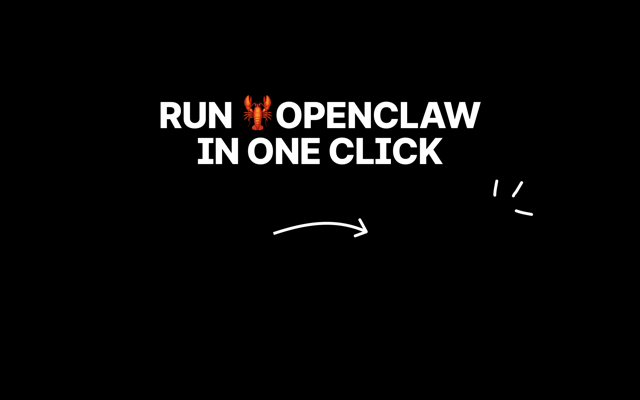
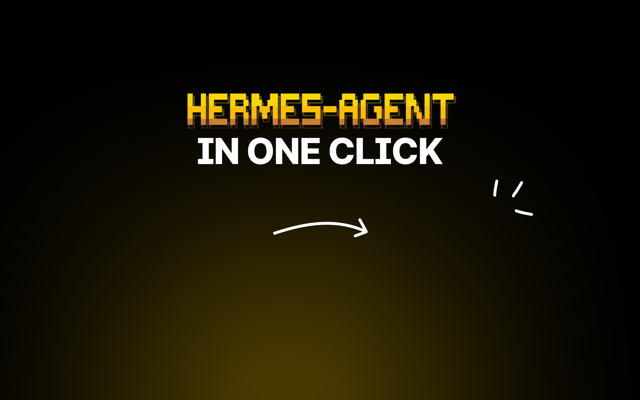
feat(ui): update chat message list and local models tab styles
- Refactored the ChatMessageList component to improve scroll behavior and user experience when new messages arrive.
- Introduced a new background image for the Hermes DMG installer.
- Updated LocalModelsTab styles to standardize button appearances and removed deprecated button styles.
- Adjusted SkillsIntegrationsTab to switch default tab from "installed" to "hub" for better user navigation.

diff --git a/desktop/renderer/src/ui/chat/components/ChatMessageList.tsx b/desktop/renderer/src/ui/chat/components/ChatMessageList.tsx
@@ -35,7 +35,7 @@ export function ChatMessageList(props: ChatMessageListProps) {
     waitingForFirstChunk,
     scrollRef,
   } = props;
-  const latestUserRef = React.useRef<HTMLDivElement | null>(null);
+  const followBottomRef = React.useRef(true);
 
   const renderedMessages = React.useMemo(() => {
     if (
@@ -57,60 +57,51 @@ export function ChatMessageList(props: ChatMessageListProps) {
     ];
   }, [isStreaming, messages, streamingActions, streamingMessageId, streamingText, streamingThinking, waitingForFirstChunk]);
 
-  const latestUserMessageId = React.useMemo(() => {
-    for (let index = renderedMessages.length - 1; index >= 0; index -= 1) {
-      const message = renderedMessages[index];
-      if (message?.role === "user") {
-        return message.id;
-      }
-    }
-    return null;
-  }, [renderedMessages]);
-
+  // Detect user-initiated scroll input and flip stickiness based on resulting position.
+  // Programmatic scrolls (our own scrollTo below) don't fire these events, so they
+  // never accidentally detach or re-attach the sticky state.
   React.useEffect(() => {
-    if ((!streamingMessageId && anchorVersion === 0) || !latestUserRef.current || !scrollRef.current) return;
+    const container = scrollRef.current;
+    if (!container) return;
 
-    let timeoutId: number | null = null;
-    let frameId = 0;
+    const STICK_THRESHOLD_PX = 80;
 
-    const alignLatestUser = (behavior: ScrollBehavior) => {
-      const container = scrollRef.current;
-      const target = latestUserRef.current;
-      if (!container || !target) return;
-
-      const containerRect = container.getBoundingClientRect();
-      const targetRect = target.getBoundingClientRect();
-      const desiredTop = -40;
-      const nextScrollTop = container.scrollTop + (targetRect.top - containerRect.top) - desiredTop;
-
-      container.scrollTo({
-        top: Math.max(0, nextScrollTop),
-        behavior,
-      });
+    const reevaluate = () => {
+      const distanceFromBottom = container.scrollHeight - container.scrollTop - container.clientHeight;
+      followBottomRef.current = distanceFromBottom <= STICK_THRESHOLD_PX;
     };
 
-    frameId = requestAnimationFrame(() => {
-      alignLatestUser("smooth");
-      timeoutId = window.setTimeout(() => {
-        alignLatestUser("auto");
-      }, 140);
-    });
+    const handleUserInput = () => {
+      requestAnimationFrame(reevaluate);
+    };
+
+    container.addEventListener("wheel", handleUserInput, { passive: true });
+    container.addEventListener("touchmove", handleUserInput, { passive: true });
+    container.addEventListener("keydown", handleUserInput);
 
     return () => {
-      cancelAnimationFrame(frameId);
-      if (timeoutId !== null) {
-        window.clearTimeout(timeoutId);
-      }
+      container.removeEventListener("wheel", handleUserInput);
+      container.removeEventListener("touchmove", handleUserInput);
+      container.removeEventListener("keydown", handleUserInput);
     };
-  }, [
-    anchorVersion,
-    isStreaming,
-    latestUserMessageId,
-    scrollRef,
-    streamingMessageId,
-    streamingText,
-    waitingForFirstChunk,
-  ]);
+  }, [scrollRef]);
+
+  // New send / stream completion boundary — user clearly wants to see the latest,
+  // so re-enable stickiness.
+  React.useEffect(() => {
+    if (anchorVersion === 0) return;
+    followBottomRef.current = true;
+  }, [anchorVersion]);
+
+  // Follow the bottom on every streamed chunk, but only while the user hasn't
+  // scrolled away. Uses scrollTop assignment (no smooth behavior) to avoid the
+  // per-token animation jitter.
+  React.useEffect(() => {
+    if (!followBottomRef.current) return;
+    const container = scrollRef.current;
+    if (!container) return;
+    container.scrollTop = container.scrollHeight;
+  }, [streamingText, streamingThinking, streamingActions, anchorVersion, renderedMessages.length, scrollRef]);
 
   return (
     <div className={`${ct.UiChatTranscript} scrollable`} ref={scrollRef}>
@@ -120,7 +111,6 @@ export function ChatMessageList(props: ChatMessageListProps) {
             return (
               <UserMessageBubble
                 key={msg.id}
-                ref={msg.id === latestUserMessageId ? latestUserRef : undefined}
                 text={msg.content}
               />
             );

diff --git a/desktop/renderer/src/ui/settings/local-models/LocalModelsTab.module.css b/desktop/renderer/src/ui/settings/local-models/LocalModelsTab.module.css
@@ -166,6 +166,12 @@
   gap: 10px;
 }
 
+.actionBtn {
+  min-width: 96px;
+  padding: 6px 14px;
+  text-align: center;
+}
+
 .deleteBtn {
   background: none;
   border: none;
@@ -323,54 +329,6 @@
 
 .backendStatusDotOff {
   background: #6b7280;
-}
-
-.activateBtn {
-  padding: 6px 16px;
-  border-radius: var(--radius-md);
-  border: 1px solid var(--surface-overlay);
-  background: var(--surface-hover);
-  color: var(--text);
-  font-size: 13px;
-  font-weight: 600;
-  cursor: pointer;
-  transition:
-    background 0.15s ease,
-    border-color 0.15s ease;
-  white-space: nowrap;
-}
-
-.activateBtn:hover {
-  background: var(--surface-overlay);
-}
-
-.activateBtn:disabled {
-  opacity: 0.5;
-  cursor: not-allowed;
-}
-
-.downloadBtn {
-  padding: 6px 16px;
-  border-radius: var(--radius-md);
-  border: 1px solid var(--surface-overlay);
-  background: var(--surface-hover);
-  color: var(--text);
-  font-size: 13px;
-  font-weight: 600;
-  cursor: pointer;
-  transition:
-    background 0.15s ease,
-    border-color 0.15s ease;
-  white-space: nowrap;
-}
-
-.downloadBtn:hover {
-  background: var(--surface-overlay);
-}
-
-.downloadBtn:disabled {
-  opacity: 0.5;
-  cursor: not-allowed;
 }
 
 .dismissBtn {

diff --git a/desktop/renderer/src/ui/settings/skills/SkillsIntegrationsTab.tsx b/desktop/renderer/src/ui/settings/skills/SkillsIntegrationsTab.tsx
@@ -16,7 +16,7 @@ type Props = {
 
 export function SkillsIntegrationsTab({ port, noTitle }: Props) {
   const navigate = useNavigate();
-  const [tab, setTab] = React.useState<SubTab>("installed");
+  const [tab, setTab] = React.useState<SubTab>("hub");
   const [search, setSearch] = React.useState("");
   const [removeTarget, setRemoveTarget] = React.useState<string | null>(null);
 
@@ -60,17 +60,17 @@ export function SkillsIntegrationsTab({ port, noTitle }: Props) {
       <div className={s.tabs}>
         <button
           type="button"
-          className={`${s.tab} ${tab === "installed" ? s.tabActive : ""}`}
-          onClick={() => setTab("installed")}
-        >
-          Installed
-        </button>
-        <button
-          type="button"
           className={`${s.tab} ${tab === "hub" ? s.tabActive : ""}`}
           onClick={() => setTab("hub")}
         >
           HermesHub
+        </button>
+        <button
+          type="button"
+          className={`${s.tab} ${tab === "installed" ? s.tabActive : ""}`}
+          onClick={() => setTab("installed")}
+        >
+          Installed
         </button>
       </div>
 

diff --git a/desktop/renderer/src/ui/settings/local-models/LocalModelsTab.tsx b/desktop/renderer/src/ui/settings/local-models/LocalModelsTab.tsx
@@ -180,7 +180,7 @@ export function LocalModelsTab(props: { port: number }) {
                       </button>
                       <button
                         type="button"
-                        className={s.activateBtn}
+                        className={`UiSkillConnectButton ${s.actionBtn}`}
                         disabled={isSelecting || selectingModelId !== null || isDeleting}
                         onClick={() => void handleSelect(model.id)}
                       >
@@ -206,7 +206,7 @@ export function LocalModelsTab(props: { port: number }) {
                 ) : (
                   <button
                     type="button"
-                    className={s.downloadBtn}
+                    className={`UiSkillConnectButton ${s.actionBtn}`}
                     onClick={() => {
                       if (model.compatibility === "not-recommended") return;
                       void (async () => {
